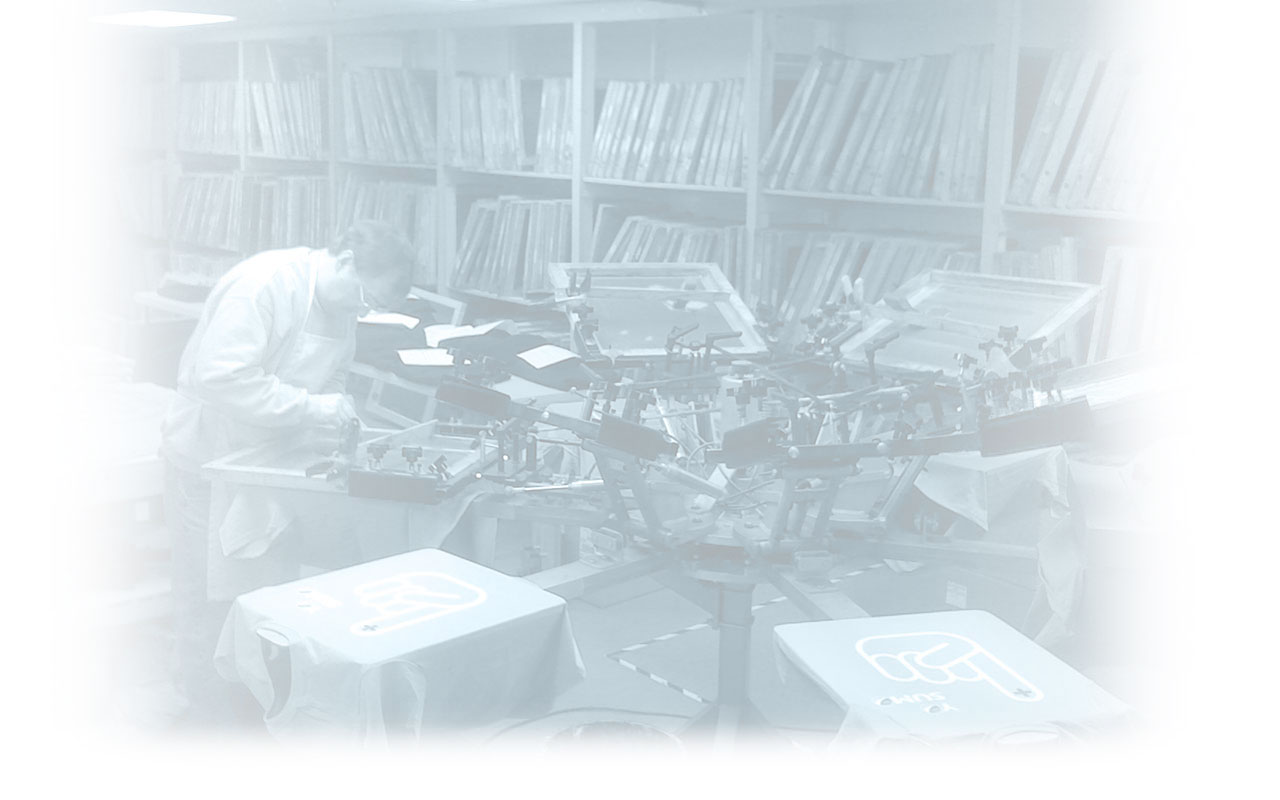
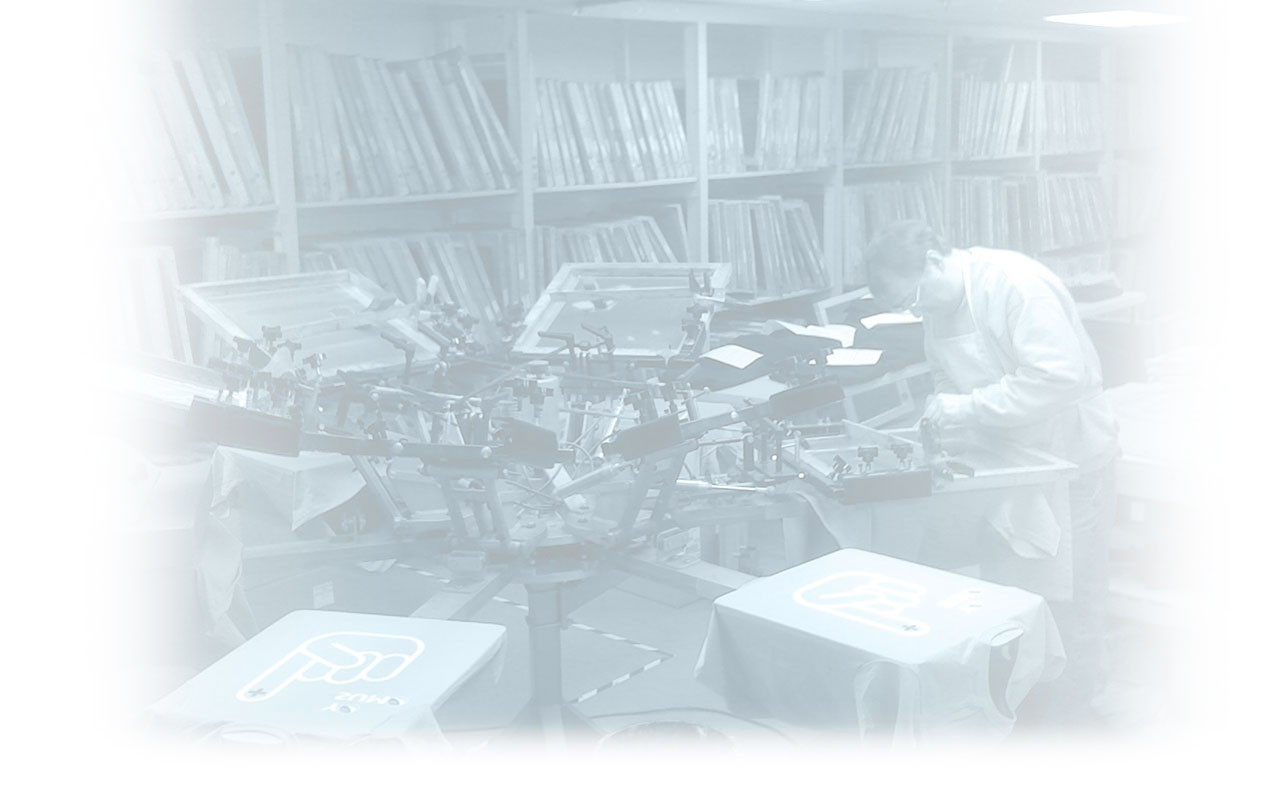
css

diff --git a/deerfield.css b/deerfield.css
@@ -32,10 +32,10 @@ body.home { background-position-y: 180px; background-color: white; }
 	body.home { background-position-y: 560px; background-color: white; }
 }*/
 
-body.home.who { background-image: url("https://webskillet.github.io/Deerfield_Designs/images/background1b.jpg"); background-repeat: no-repeat; background-position-x: center; }
+body.home.who { background-image: url("https://webskillet.github.io/Deerfield_Designs/images/background4b.jpg"); background-repeat: no-repeat; background-position-x: center; }
 body.home.what { background-image: url("https://webskillet.github.io/Deerfield_Designs/images/background2b.jpg"); background-repeat: no-repeat; background-position-x: center; }
 body.home.why { background-image: url("https://webskillet.github.io/Deerfield_Designs/images/background3b.jpg"); background-repeat: no-repeat; background-position-x: center; }
-body.home.how { background-image: url("https://webskillet.github.io/Deerfield_Designs/images/background4b.jpg"); background-repeat: no-repeat; background-position-x: center; }
+body.home.how { background-image: url("https://webskillet.github.io/Deerfield_Designs/images/background1b.jpg"); background-repeat: no-repeat; background-position-x: center; }
 
 @media screen and (max-width: 744px) {
 	img#dd-people { display: none; }
